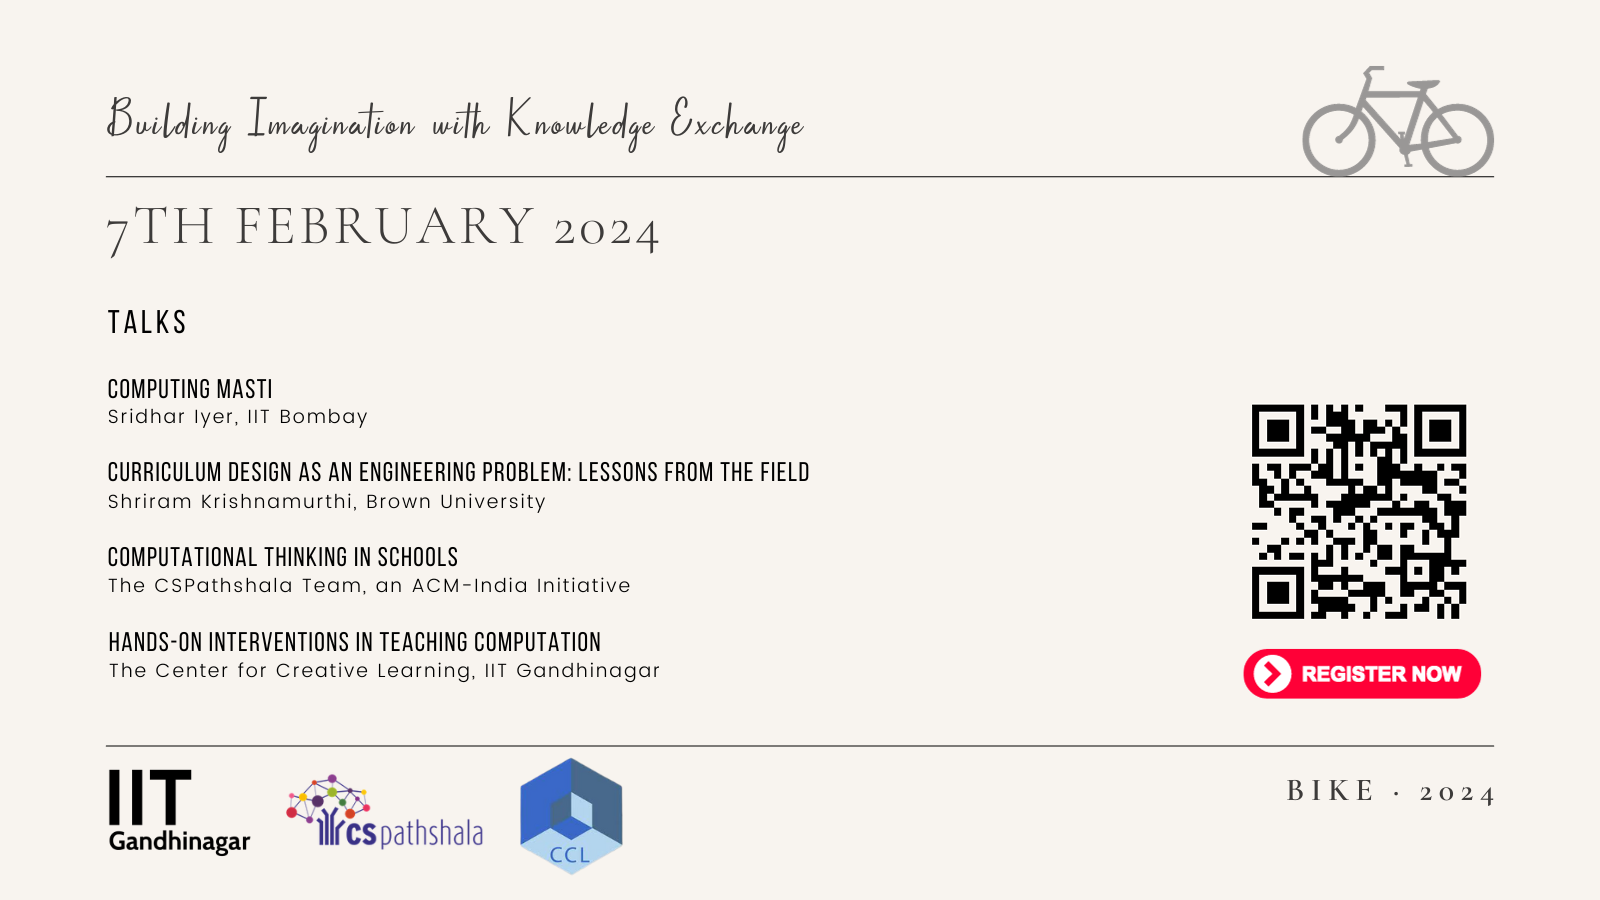
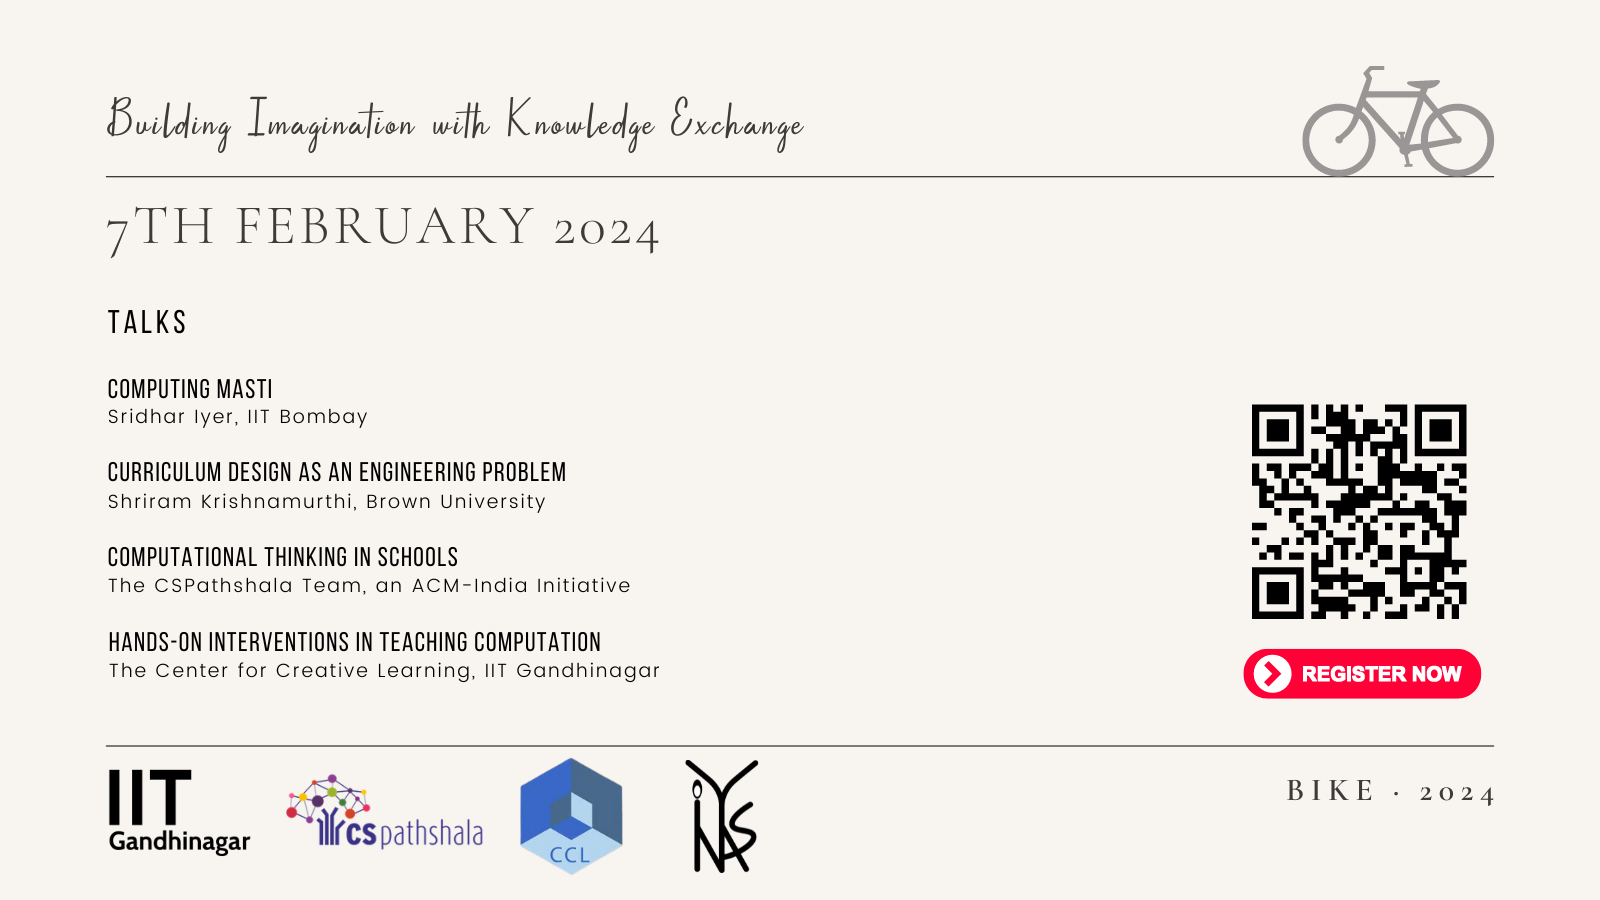
Bike updates

diff --git a/_site/events/2024/bike/index.html b/_site/events/2024/bike/index.html
@@ -267,7 +267,11 @@ To pay, please use one of the following options depending on how you plan to joi
 <i class="callout-icon no-icon"></i>
 </div>
 <div class="callout-body-container">
-<p><i class="bi-calendar" style="color: dodgerblue;" role="img" aria-hidden="true"></i> The deadline to register is <strong>31st January, 2024</strong>. A registration link will be available soon.</p>
+<p><i class="bi-calendar" style="color: dodgerblue;" role="img" aria-hidden="true"></i> The deadline to register is <strong>4th February, 2024</strong>. We are limited to 100 spots, so please register sooner than later by filling out the form below:</p>
+<iframe data-tally-src="https://tally.so/embed/w8xbgA?alignLeft=1&amp;hideTitle=1&amp;transparentBackground=1&amp;dynamicHeight=1" loading="lazy" width="100%" height="387" frameborder="0" marginheight="0" marginwidth="0" title="Register for BIKE 2024">
+</iframe>
+<script>var d=document,w="https://tally.so/widgets/embed.js",v=function(){"undefined"!=typeof Tally?Tally.loadEmbeds():d.querySelectorAll("iframe[data-tally-src]:not([src])").forEach((function(e){e.src=e.dataset.tallySrc}))};if("undefined"!=typeof Tally)v();else if(d.querySelector('script[src="'+w+'"]')==null){var s=d.createElement("script");s.src=w,s.onload=v,s.onerror=v,d.body.appendChild(s);}</script>
+<p>A link to process payments will be shared separately with registered participants.</p>
 </div>
 </div>
 </div>
@@ -365,7 +369,7 @@ Abstract
 <hr>
 <p><strong>3:30PM — 4PM.</strong> <i class="bi-cup-hot-fill" style="" role="img" aria-hidden="true"></i> Coffee Break</p>
 <hr>
-<p><strong>4PM — 5PM.</strong> <em>Curriculum Design as an Engineering Problem: Lessons From the Field</em> • Shriram Krishnamurthi</p>
+<p><strong>4PM — 5PM.</strong> <em>Curriculum Design as an Engineering Problem</em> • Shriram Krishnamurthi</p>
 <div class="callout callout-style-default callout-tip no-icon callout-titled">
 <div class="callout-header d-flex align-content-center" data-bs-toggle="collapse" data-bs-target=".callout-5-contents" aria-controls="callout-5" aria-expanded="false" aria-label="Toggle callout">
 <div class="callout-icon-container">
@@ -378,7 +382,9 @@ Abstract
 </div>
 <div id="callout-5" class="callout-5-contents callout-collapse collapse">
 <div class="callout-body-container callout-body">
-<p>Coming Soon</p>
+<p>Around the world, numerous countries are rushing to add computer science to school curricula. Given this sense of urgency, many curricula are being proposed and tried out, often with the goal of teaching “computational thinking”. Due to the lack of widespread expertise in computing education, technologists everywhere — many with a minimal understanding of schools — are being drafted to weigh in on curricula or are even designing their own, in some cases turning these into commercial ventures.</p>
+<p>In this climate, how should we actually address curriculum design? What are the constraints and affordances in schools, and what does it take for computation to actually be effective in teaching thinking? Given that curricula, once adopted, often stay in place for a long time, the need for research-driven designs is especially pressing.</p>
+<p>This talk will primarily critique the notion of “computational thinking”. It will also distill lessons from Bootstrap, one of the largest computing outreach programs in the USA. The core principles discussed apply across curricula, countries, and ages.</p>
 </div>
 </div>
 </div>
